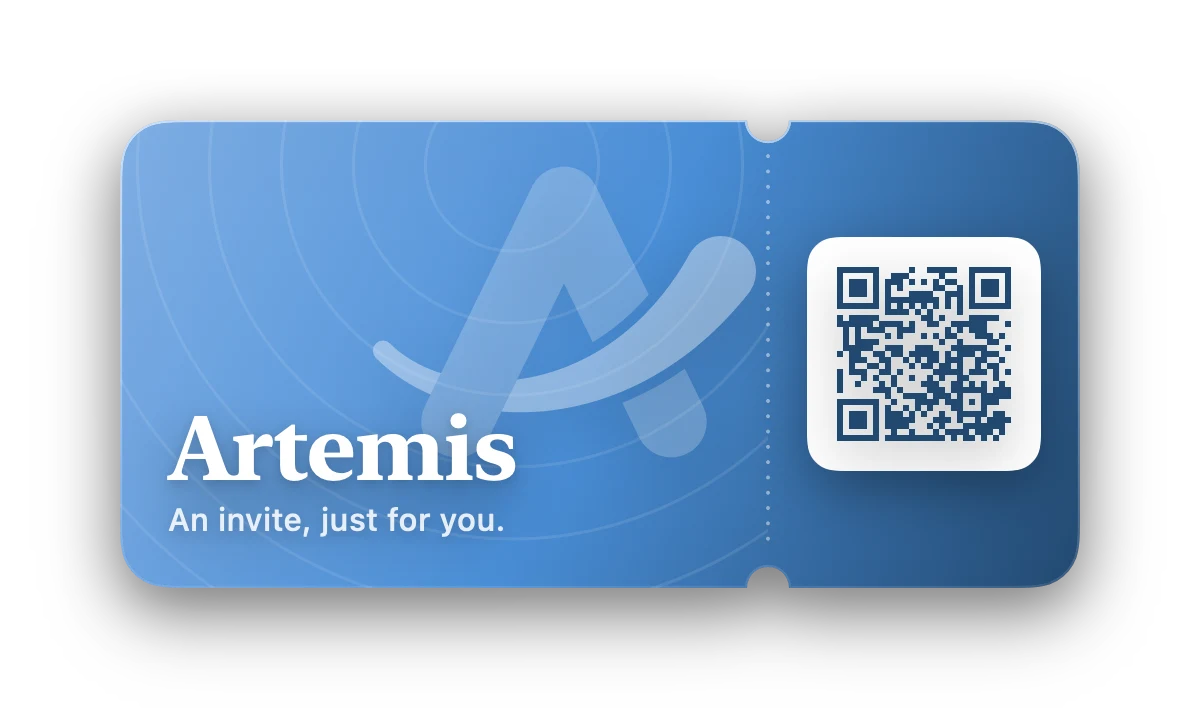
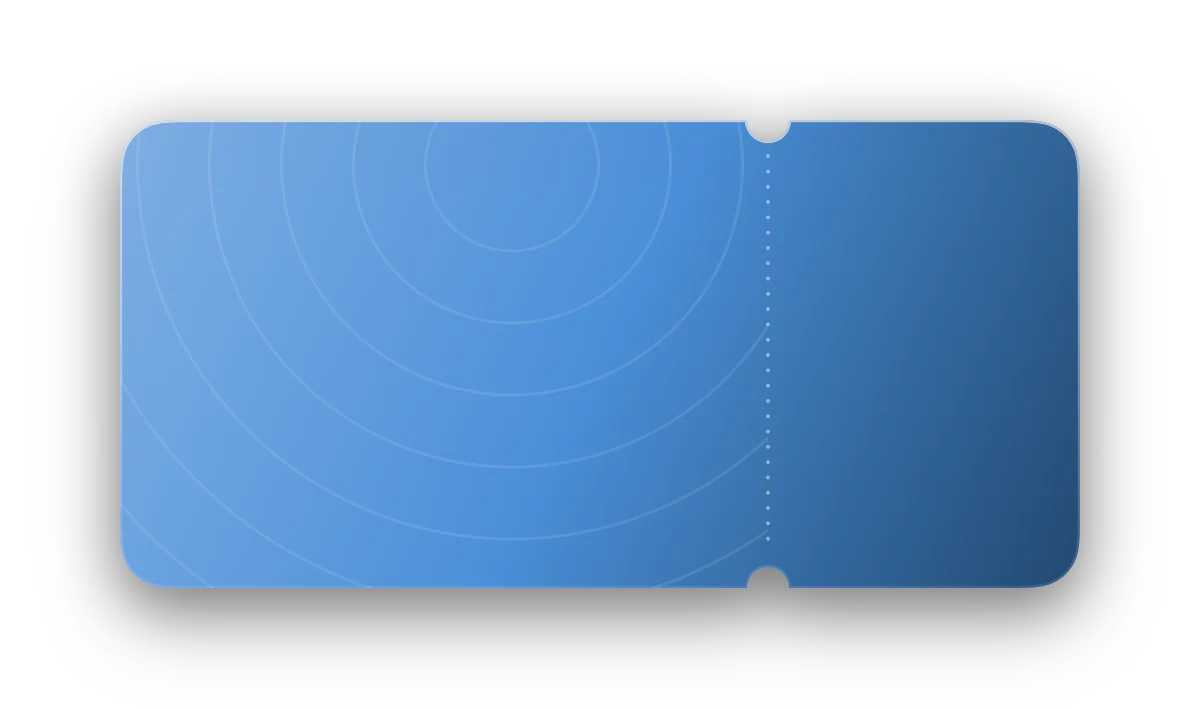
feat(invite): the ticket leans under the pointer, as it does in the app
The ticket is now three registered images (paper, mark, words and code) so
the mark and words drift over the paper, with the app's tilt, lift and light
spot. --tx/--ty are registered so the lean eases; hover, fine pointer and
no-preference gate it in the stylesheet.

Confetti resting on the ticket falls on to the heading at the first pointer
move over it, as a leaning ticket would leave it hanging.

invite.js budget 2 KB -> 3 KB gz (now 2.0 KB); the 24 KB total is untouched.

Changed region(s): [[0.1233, 0.2175, 0.8942, 0.7768]]

diff --git a/website/src/js/invite.js b/website/src/js/invite.js
@@ -1,14 +1,25 @@
 // SPDX-License-Identifier: GPL-3.0-only
 // Copyright (c) 2026 Fin. Additional terms under GPL section 7 apply: see LICENSE-ADDITIONAL-TERMS.
 
-// Confetti over /invite once the page has loaded. A quarter of it comes to rest on the ticket, a quarter
+// The ticket leans under the pointer, and confetti falls over /invite once the page has loaded. A quarter of it comes to rest on the ticket, a quarter
 // passes in front and rests on the heading's letters, the rest on the foot of the page. Once all of it
 // has landed it fades.
+const light = document.querySelector(".ticket-light");
+// --tx and --ty, which the stylesheet turns into the lean
+const lean = (x, y) => {
+  light.parentNode.style.setProperty("--tx", x);
+  light.parentNode.style.setProperty("--ty", y);
+};
+light.addEventListener("pointermove", (e) =>
+  lean(e.offsetX / light.offsetWidth - 0.5, e.offsetY / light.offsetHeight - 0.5),
+);
+light.addEventListener("pointerleave", () => lean(0, 0));
+
 const COLOURS = ["#4a8fd8", "#57c89a", "#e2bf55", "#da8097", "#e8a77c"];
 const rand = (a, b) => a + Math.random() * (b - a);
 
 async function confetti() {
-  const ticket = document.querySelector(".solo-ticket");
+  const ticket = document.querySelector(".ticket img");
   const heading = document.querySelector(".solo h1");
   // WebKit draws an <img> it has yet to paint into a canvas as nothing, so the edge is read from the file
   const paper = await createImageBitmap(
@@ -105,6 +116,20 @@ async function confetti() {
     if (document.documentElement.clientWidth !== W) pieces.length = 0;
   });
 
+  // a ticket that leans holds nothing: what rested on it falls on to the next surface
+  light.addEventListener(
+    "pointermove",
+    () => {
+      surfaces[0].fill(Infinity);
+      for (const p of pieces)
+        if (p.rest && !p.on) {
+          p.rest = false;
+          p.flip = Math.acos(p.face);
+        }
+    },
+    { once: true },
+  );
+
   let settled = 0;
   let last = performance.now();
   const frame = (now) => {
@@ -134,6 +159,7 @@ async function confetti() {
           // only from above, bar the foot of the page, which nothing gets under
           if ((k < 2 && before > top) || p.y <= top) continue;
           p.rest = true;
+          p.on = k;
           p.y = top - p.size * 0.15;
           p.flat = rand(0.35, 0.75) * (p.face < 0 ? -1 : 1);
           p.lie = Math.round(p.rot / Math.PI) * Math.PI + rand(-0.3, 0.3);

diff --git a/website/src/css/components.css b/website/src/css/components.css
@@ -1369,13 +1369,66 @@ button.ctl:active {
 .solo .btn {
   margin-top: 36px;
 }
-/* the image carries 60px of clear margin for its shadow */
-.solo-ticket {
+/* ---------- invite: the ticket as paper, mark and words, each image with 60px of clear margin ---------- */
+.ticket {
+  position: relative;
   width: min(600px, 100%);
+}
+.ticket + h1 {
+  margin-top: 0;
+}
+.ticket img {
+  display: block;
+  width: 100%;
   height: auto;
 }
-.solo-ticket + h1 {
-  margin-top: 0;
+.ticket img + img {
+  position: absolute;
+  top: 0;
+  left: 0;
+}
+/* the ticket's own shape inside that margin: where invite.js reads the pointer, and where its light falls */
+.ticket-light {
+  position: absolute;
+  inset: 16.95% 10%;
+  border-radius: 5% / 10.26%;
+  background: radial-gradient(
+    circle 225px at calc((var(--tx) + 0.5) * 100%)
+      calc((var(--ty) + 0.5) * 100%),
+    rgb(255 255 255 / 0.18),
+    transparent
+  );
+  mask:
+    radial-gradient(ellipse 2.19% 4.49% at 67.5% 0, #0000 97%, #000),
+    radial-gradient(ellipse 2.19% 4.49% at 67.5% 100%, #0000 97%, #000);
+  mask-composite: intersect;
+  opacity: 0;
+}
+@media (hover: hover) and (pointer: fine) and (prefers-reduced-motion: no-preference) {
+  .ticket {
+    transform: perspective(960px) rotateY(calc(var(--tx) * 10deg))
+      rotateX(calc(var(--ty) * -9deg));
+    translate: calc(var(--tx) * 4.5px) calc(var(--ty) * 4.5px);
+    transition:
+      --tx 0.55s var(--ease-reveal),
+      --ty 0.55s var(--ease-reveal),
+      scale 0.55s var(--ease-reveal);
+  }
+  .ticket:has(.ticket-light:hover) {
+    scale: 1.02;
+  }
+  .ticket img + img {
+    translate: calc(var(--tx) * 6px) calc(var(--ty) * 6px);
+  }
+  .ticket img + img + img {
+    translate: calc(var(--tx) * 4.5px) calc(var(--ty) * 4.5px);
+  }
+  .ticket-light {
+    transition: opacity 0.3s;
+  }
+  .ticket-light:hover {
+    opacity: 1;
+  }
 }
 .solo-row {
   display: flex;

diff --git a/website/src/pages/invite.html b/website/src/pages/invite.html
@@ -1,7 +1,12 @@
 <!-- SPDX-License-Identifier: GPL-3.0-only
      Copyright (c) 2026 Fin. Additional terms under GPL section 7 apply: see LICENSE-ADDITIONAL-TERMS. -->
 <main class="solo" id="main">
-  <img class="solo-ticket" src="/assets/img/ticket.webp" width="600" height="354" alt="" />
+  <div class="ticket">
+    <img src="/assets/img/ticket.webp" width="600" height="354" alt="" />
+    <img src="/assets/img/ticket-mark.webp" width="600" height="354" alt="" />
+    <img src="/assets/img/ticket-words.webp" width="600" height="354" alt="" />
+    <i class="ticket-light"></i>
+  </div>
   <h1>You’re invited to Artemis.</h1>
   <p class="solo-body">A browser for Mac, from someone with good taste.</p>
   <div class="solo-row">

diff --git a/website/src/css/tokens.css b/website/src/css/tokens.css
@@ -41,6 +41,17 @@
   inherits: false;
   initial-value: 0%;
 }
+/* the pointer over the invite's ticket from its centre, -0.5 to 0.5; registered, so the lean can ease */
+@property --tx {
+  syntax: "<number>";
+  inherits: true;
+  initial-value: 0;
+}
+@property --ty {
+  syntax: "<number>";
+  inherits: true;
+  initial-value: 0;
+}
 
 :root {
   color-scheme: light dark;
